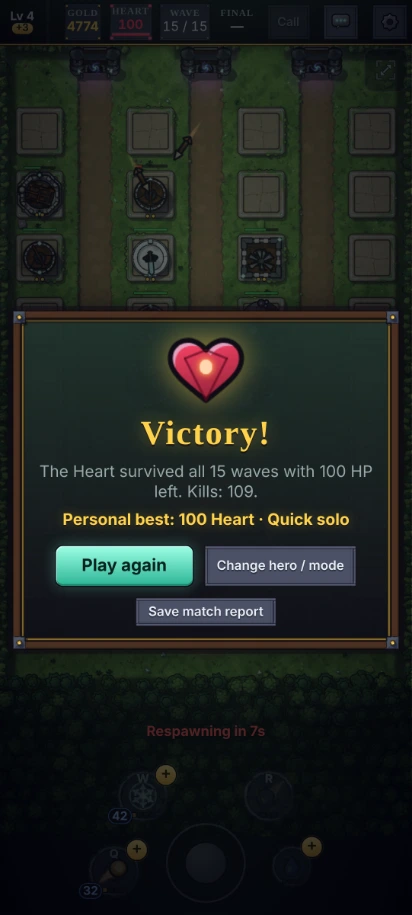
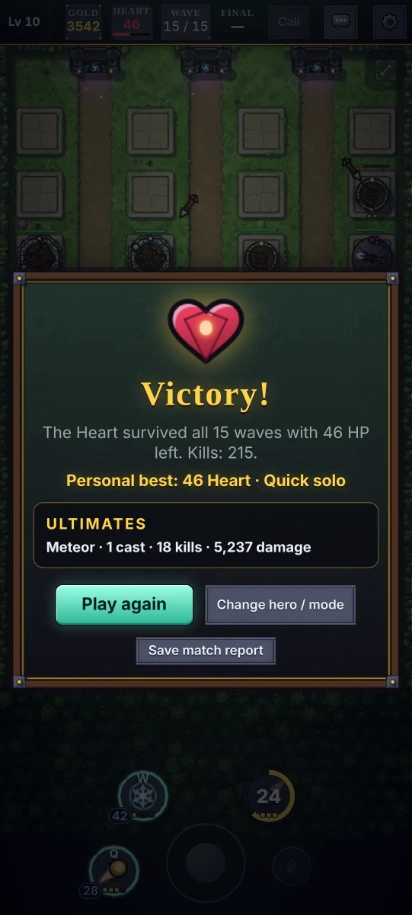
e-press: spend the gold with upgrades too; the victory on waves the towers hold
Claude-Session: https://claude.ai/code/session_01F3BVH2wYsy29pq3JLFQWQf

diff --git a/apps/client/scripts/pressShots.ts b/apps/client/scripts/pressShots.ts
@@ -356,17 +356,29 @@ const SPARE: Pt[] = [
 ];
 
 /**
- * Phone: Arrows on spare pads until under an Arrow's price is left, as a player spends: no "Gold is waiting" nudge
- * (it speaks only of gold that buys something).
+ * Phone: the gold spent as a player spends it (no "Gold is waiting" nudge, which speaks only of gold that buys
+ * something): Arrows on the spare pads, then a tier on the towers under tier 3, until under an Arrow's price is left.
  */
 async function spendDown(page: Page): Promise<void> {
-  const price = (TUNING.towers as any).arrow.tiers[0].cost as number;
+  const cost = (kind: string, tier: number) => (TUNING.towers as any)[kind].tiers[tier - 1]?.cost as number | undefined;
   const me = await page.evaluate(() => (window as any).__tdt.me());
+  const gold = async () => ((await latest(page)).players.find((p: any) => p.id === me)?.gold ?? 0) as number;
+  const arrow = cost('arrow', 1)!;
   for (const at of SPARE) {
-    if (((await latest(page)).players.find((p: any) => p.id === me)?.gold ?? 0) < price) return;
+    if ((await gold()) < arrow) return;
     const [pad] = await padsNear(page, [at]);
     if (!pad || Math.hypot(pad.x - at.x, pad.y - at.y) > 1 || (await towerOn(page, pad.id))) continue;
     await buildPhone(page, [{ at, kind: 'arrow', tier: 1 }]);
+  }
+  for (let pass = 0; pass < 3; pass++) {
+    const towers = ((await latest(page)).towers as any[]).filter((t) => t.owner === me && t.tier < 3);
+    for (const t of towers) {
+      const price = cost(t.kind, t.tier + 1);
+      if (price === undefined || (await gold()) < price) continue;
+      const pad = await page.evaluate((id) => (window as any).__tdt.map.pads[id], t.padId);
+      await buildPhone(page, [{ at: { x: pad.x, y: pad.y }, kind: t.kind, tier: t.tier + 1 }]);
+    }
+    if ((await gold()) < arrow) return;
   }
 }
 
@@ -918,9 +930,9 @@ async function shot5(browser: Browser, url: string): Promise<void> {
   await buildPhone(page, BUILT);
   await walkTo(page, ROAD.mid - 1.6, 26);
   let cast = false;
-  for (const w of [5, 9, 13]) {
+  for (const w of [3, 5, 7]) {
     await skipTo(page, w);
-    const end = Date.now() + 14_000;
+    const end = Date.now() + 16_000;
     while (Date.now() < end) {
       // Her Meteor on a full wave, once, so the end card lists its kills.
       if (!cast && (await latest(page)).creeps.length >= 14) {
